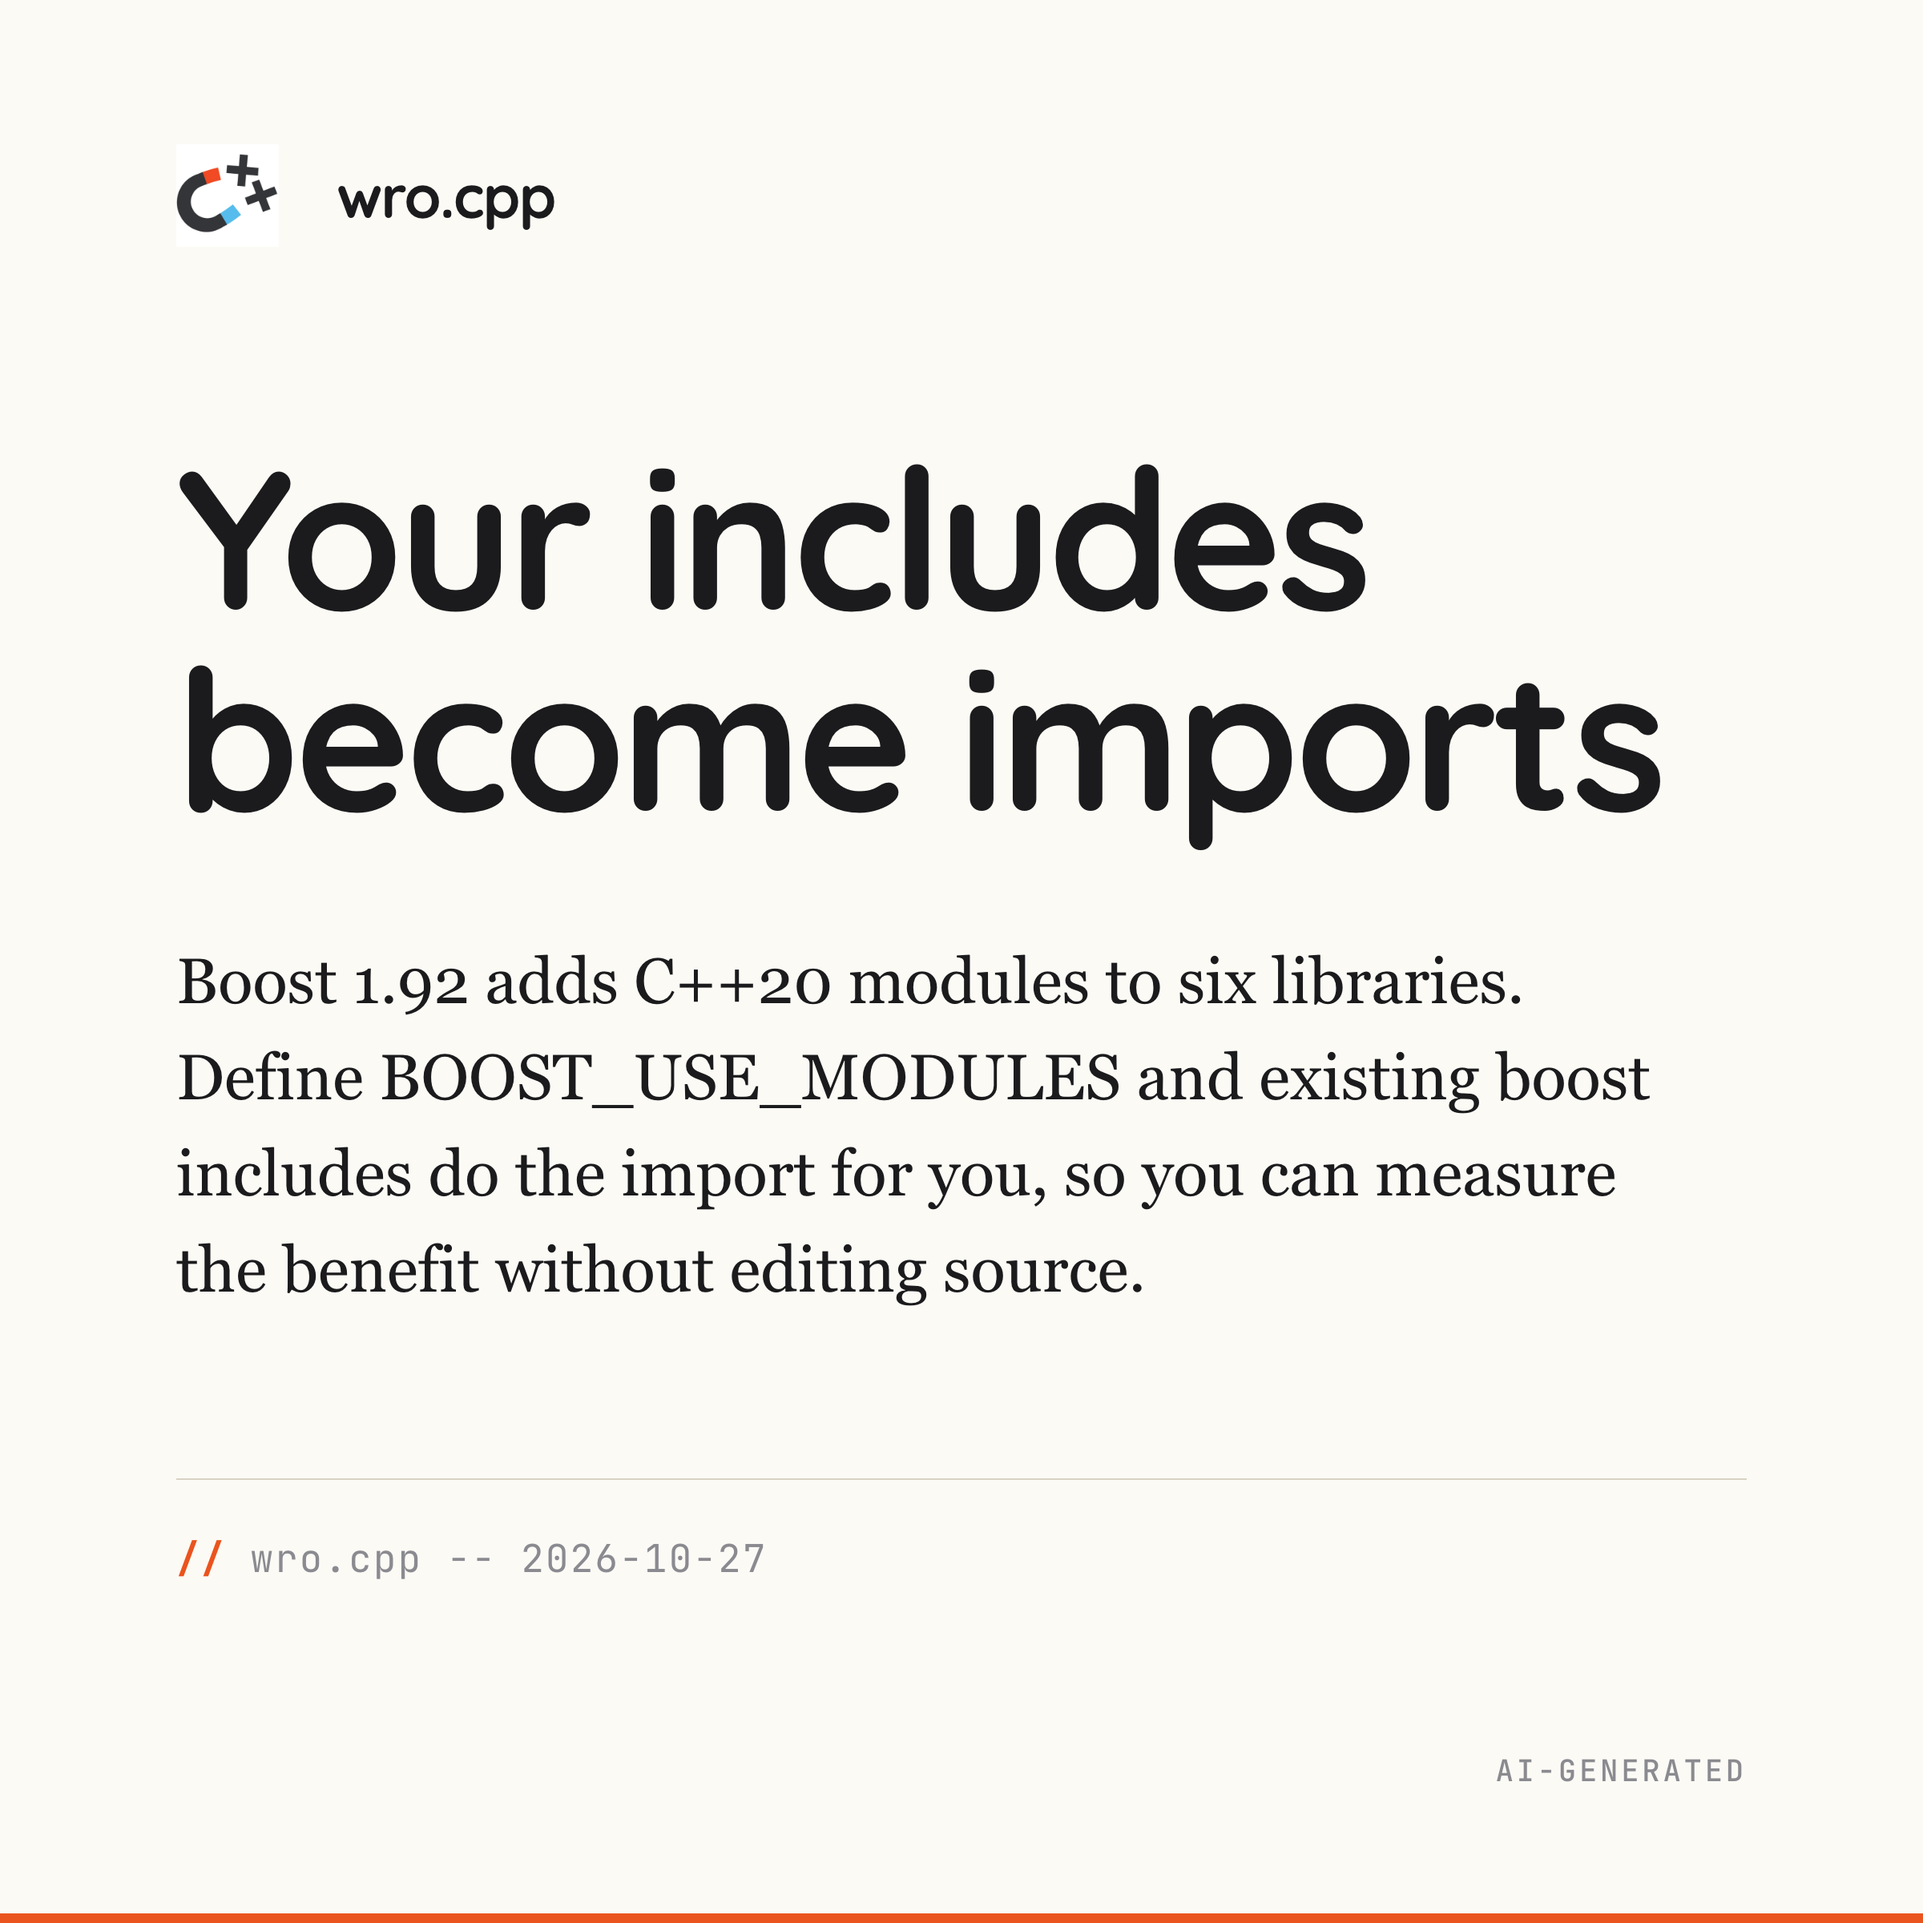
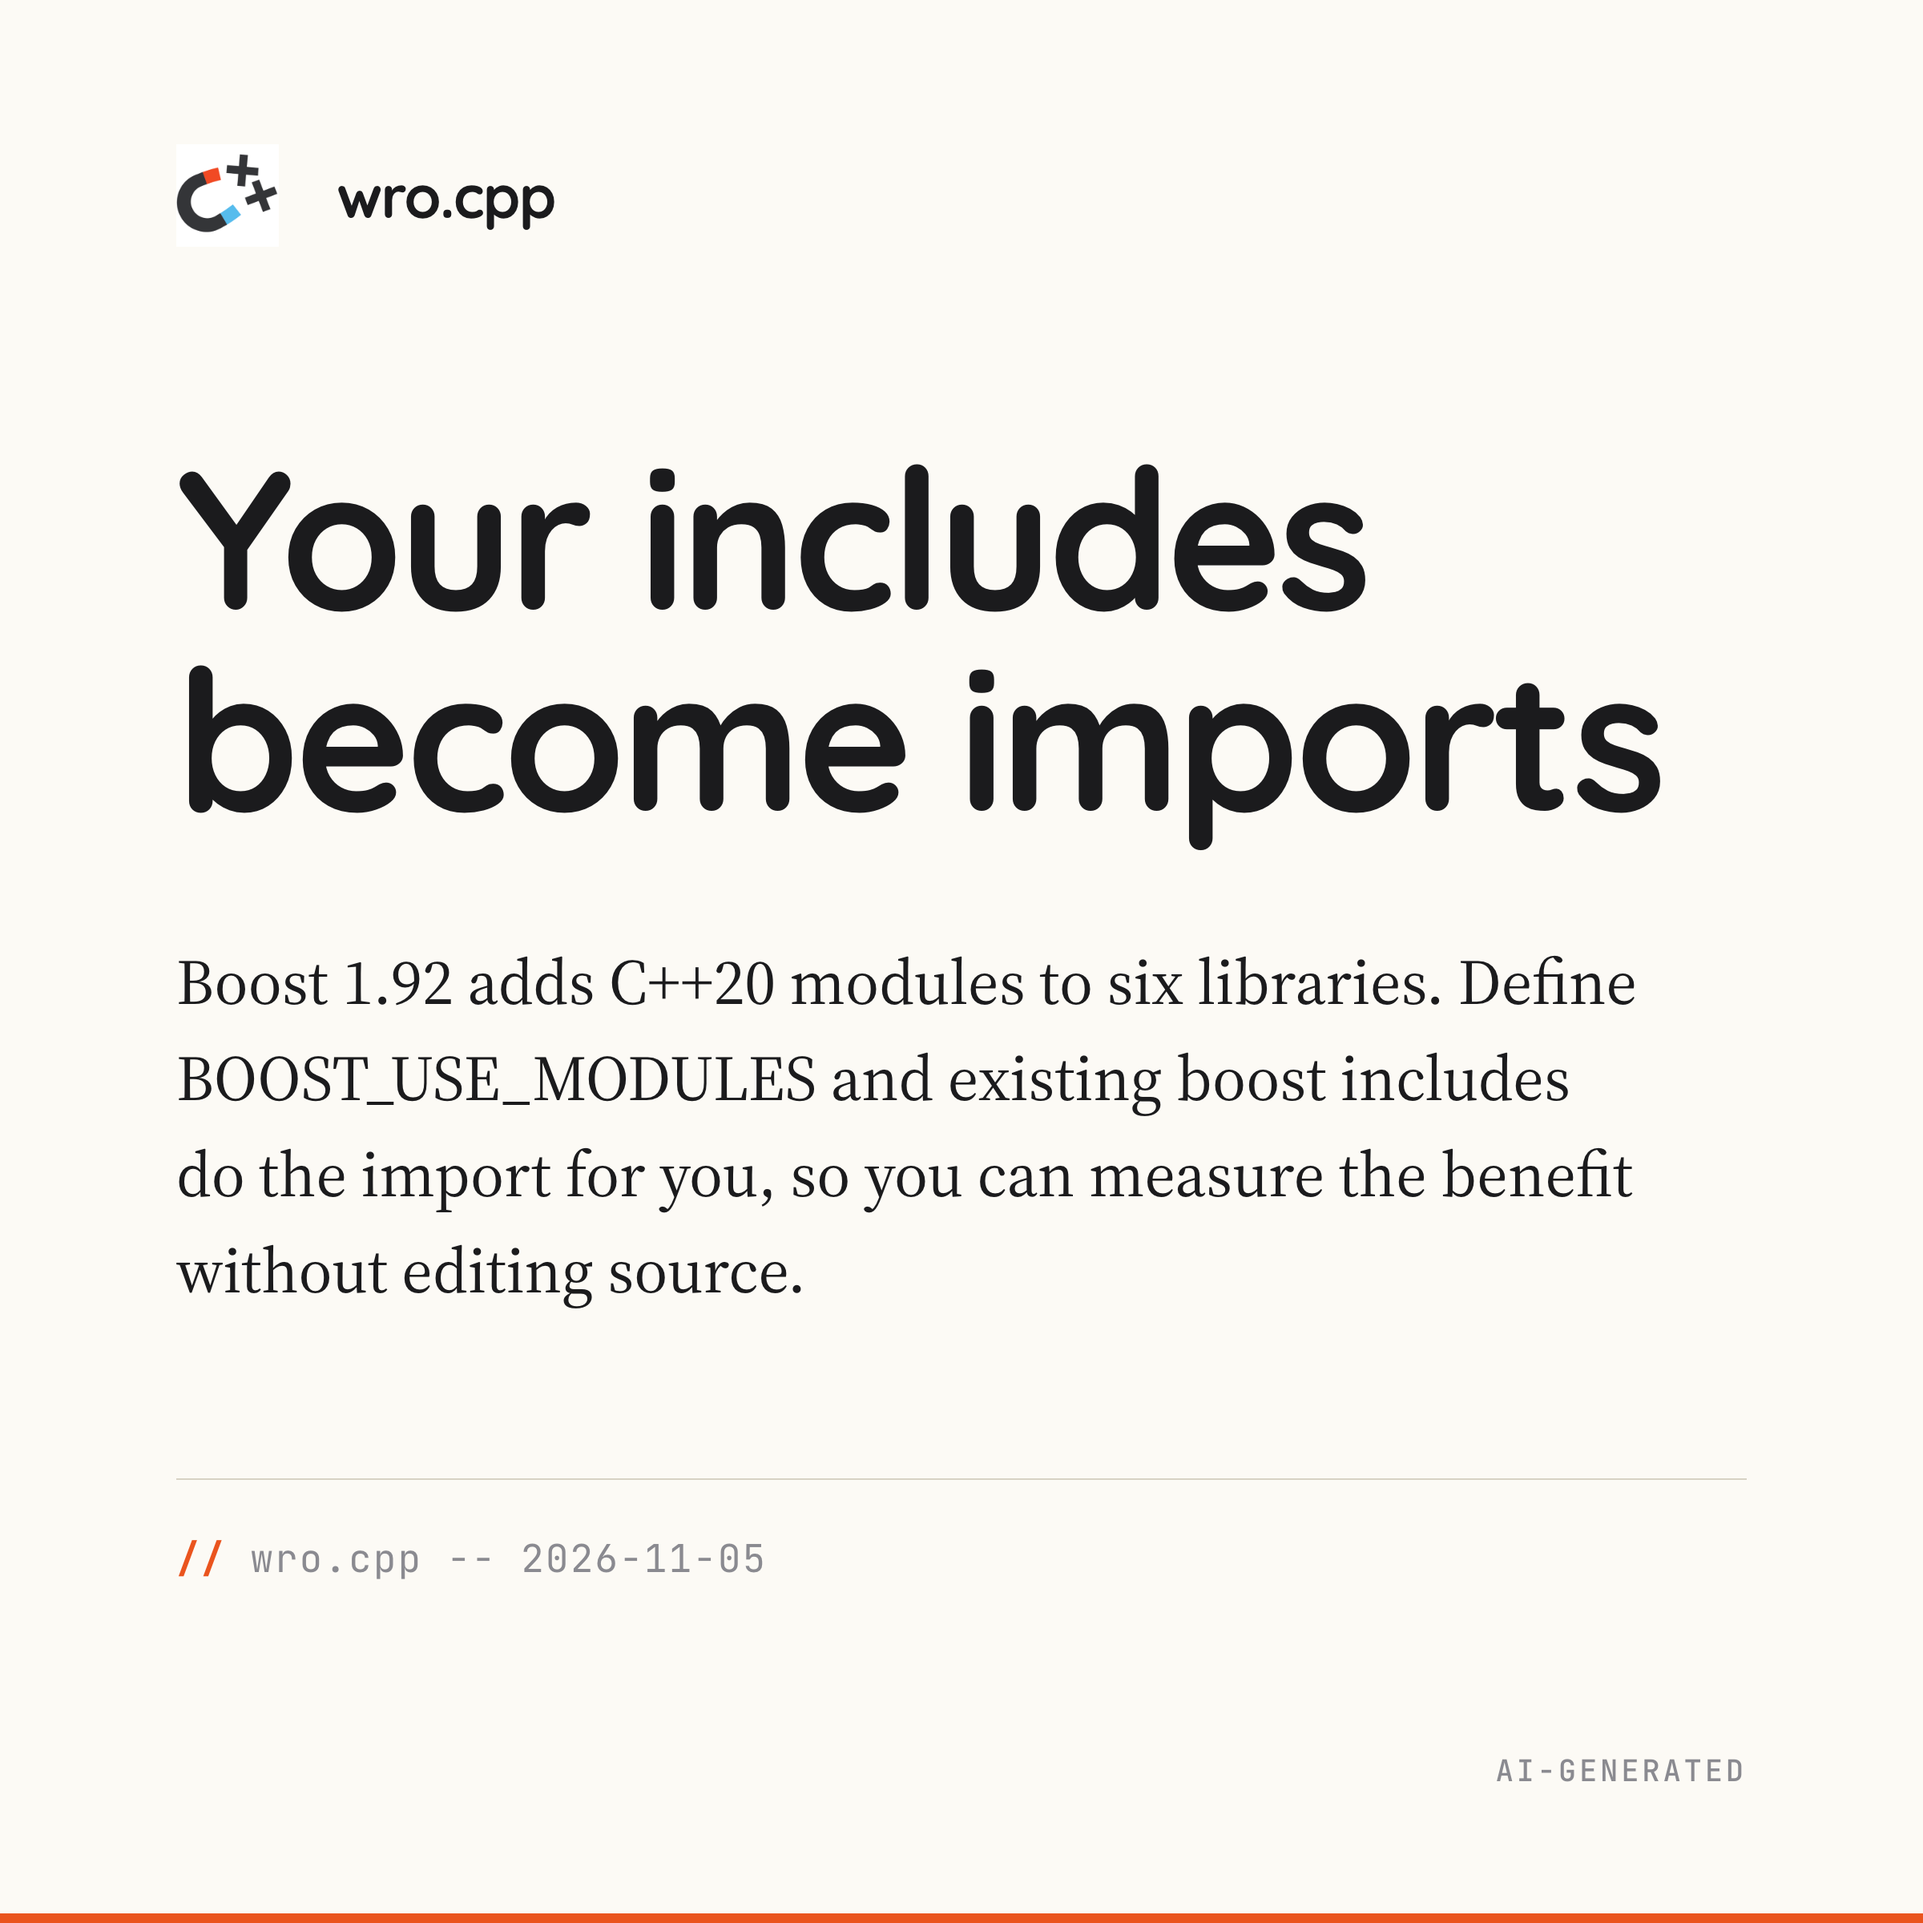
feat(post): move the Boost modules short to 5 November
The ballot post takes the first slot of 27 October. The short keeps its cards, re-dated.

Claude-Session: https://claude.ai/code/session_01BTCmkp4nQKAhWT8TGXF9KX

Changed region(s): [[0.0938, 0.5, 0.8438, 0.6875]]

diff --git a/social/facebook/boost-modules-1-92/index.html b/social/facebook/boost-modules-1-92/index.html
@@ -23,6 +23,6 @@
   </defs>
 </svg>
 
-<section class="card card-insight dark"><div class="grid-bg"></div><div class="glow"></div><div class="insight-content"><h1>Your includes become imports</h1><p>Boost 1.92 adds C++20 modules to six libraries. Define BOOST_USE_MODULES and existing boost includes do the import for you, so you can measure the benefit without editing source.</p><div class="insight-citation">wro.cpp -- 2026-10-27</div></div><div class="logo-watermark top-left"><svg viewBox="0 0 512 512" aria-hidden="true"><use href="#scudo-logo"/></svg><span class="logo-wordmark">ScudoAI</span></div><div class="ai-badge">AI-generated</div></section>
+<section class="card card-insight dark"><div class="grid-bg"></div><div class="glow"></div><div class="insight-content"><h1>Your includes become imports</h1><p>Boost 1.92 adds C++20 modules to six libraries. Define BOOST_USE_MODULES and existing boost includes do the import for you, so you can measure the benefit without editing source.</p><div class="insight-citation">wro.cpp -- 2026-11-05</div></div><div class="logo-watermark top-left"><svg viewBox="0 0 512 512" aria-hidden="true"><use href="#scudo-logo"/></svg><span class="logo-wordmark">ScudoAI</span></div><div class="ai-badge">AI-generated</div></section>
 </body>
 </html>

diff --git a/social/linkedin/boost-modules-1-92/index.html b/social/linkedin/boost-modules-1-92/index.html
@@ -23,6 +23,6 @@
   </defs>
 </svg>
 
-<section class="card card-insight dark"><div class="grid-bg"></div><div class="glow"></div><div class="insight-content"><h1>Your includes become imports</h1><p>Boost 1.92 adds C++20 modules to six libraries. Define BOOST_USE_MODULES and existing boost includes do the import for you, so you can measure the benefit without editing source.</p><div class="insight-citation">wro.cpp -- 2026-10-27</div></div><div class="logo-watermark top-left"><svg viewBox="0 0 512 512" aria-hidden="true"><use href="#scudo-logo"/></svg><span class="logo-wordmark">ScudoAI</span></div><div class="ai-badge">AI-generated</div></section>
+<section class="card card-insight dark"><div class="grid-bg"></div><div class="glow"></div><div class="insight-content"><h1>Your includes become imports</h1><p>Boost 1.92 adds C++20 modules to six libraries. Define BOOST_USE_MODULES and existing boost includes do the import for you, so you can measure the benefit without editing source.</p><div class="insight-citation">wro.cpp -- 2026-11-05</div></div><div class="logo-watermark top-left"><svg viewBox="0 0 512 512" aria-hidden="true"><use href="#scudo-logo"/></svg><span class="logo-wordmark">ScudoAI</span></div><div class="ai-badge">AI-generated</div></section>
 </body>
 </html>

diff --git a/social/facebook/boost-modules-1-92/caption.md b/social/facebook/boost-modules-1-92/caption.md
@@ -20,5 +20,5 @@ https://wrocpp.github.io/posts/boost-modules-1-92/
 A wro.cpp social card reading "Your includes become imports", about Boost 1.92 adding C++20 module support to six libraries.
 
 ## Suggested post time
-Tuesday 2026-10-27, 11:00 CET
-Reason: Weekend late morning for a build systems read.
+Thursday 2026-11-05, 08:00 UTC
+Reason: the morning slot of a day with one post, moved here from 27 October for the DIS ballot post.

diff --git a/social/linkedin/boost-modules-1-92/caption.md b/social/linkedin/boost-modules-1-92/caption.md
@@ -26,5 +26,5 @@ Have you measured modules on a real codebase yet?
 A wro.cpp social card reading "Your includes become imports", about Boost 1.92 adding C++20 module support to six libraries.
 
 ## Suggested post time
-Tuesday 2026-10-27, 11:00 CET
-Reason: Weekend late morning for a build systems read.
+Thursday 2026-11-05, 08:00 UTC
+Reason: the morning slot of a day with one post, moved here from 27 October for the DIS ballot post.

diff --git a/social/facebook/boost-modules-1-92/content.md b/social/facebook/boost-modules-1-92/content.md
@@ -4,7 +4,7 @@ template: social/linkedin-post
 
 ::::post{type=insight theme=dark logo=top-left}
 
-:::insight{citation="wro.cpp -- 2026-10-27"}
+:::insight{citation="wro.cpp -- 2026-11-05"}
 # Your includes become imports
 Boost 1.92 adds C++20 modules to six libraries. Define BOOST_USE_MODULES and existing boost includes do the import for you, so you can measure the benefit without editing source.
 :::

diff --git a/social/linkedin/boost-modules-1-92/content.md b/social/linkedin/boost-modules-1-92/content.md
@@ -4,7 +4,7 @@ template: social/linkedin-post
 
 ::::post{type=insight theme=dark logo=top-left}
 
-:::insight{citation="wro.cpp -- 2026-10-27"}
+:::insight{citation="wro.cpp -- 2026-11-05"}
 # Your includes become imports
 Boost 1.92 adds C++20 modules to six libraries. Define BOOST_USE_MODULES and existing boost includes do the import for you, so you can measure the benefit without editing source.
 :::
